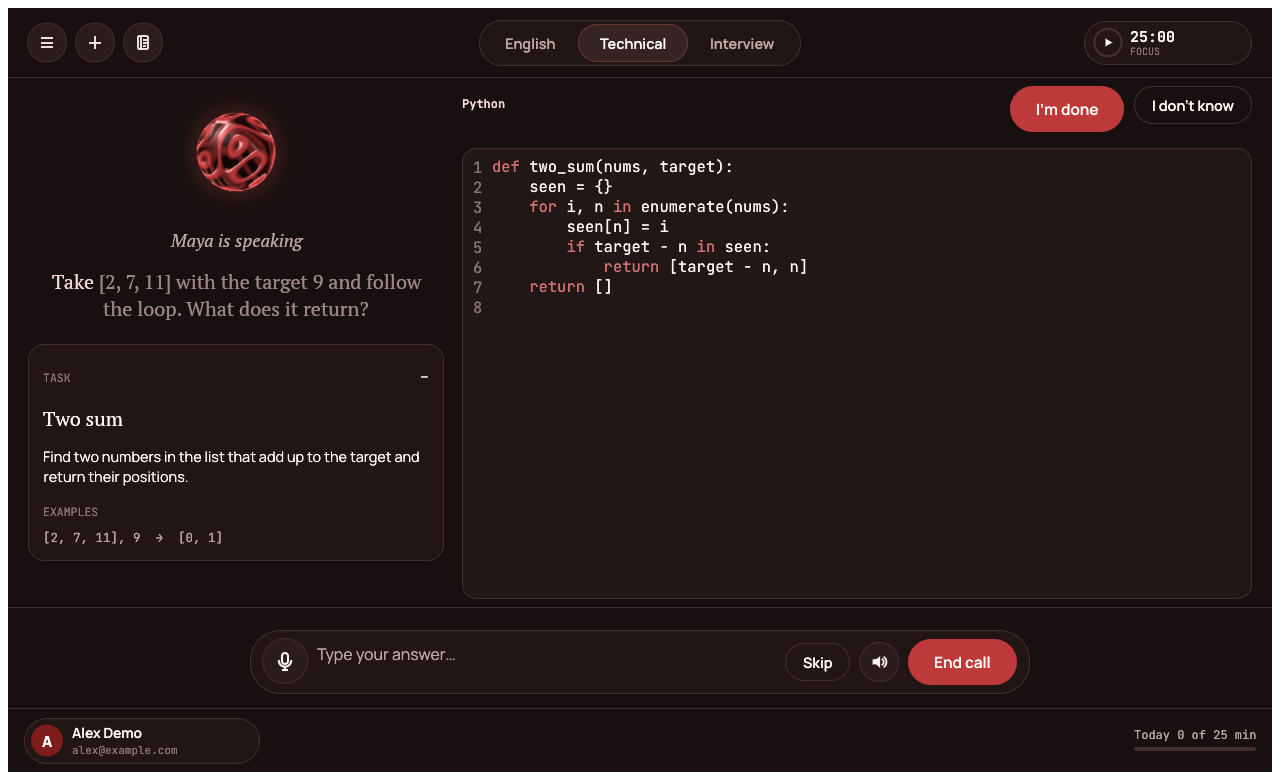
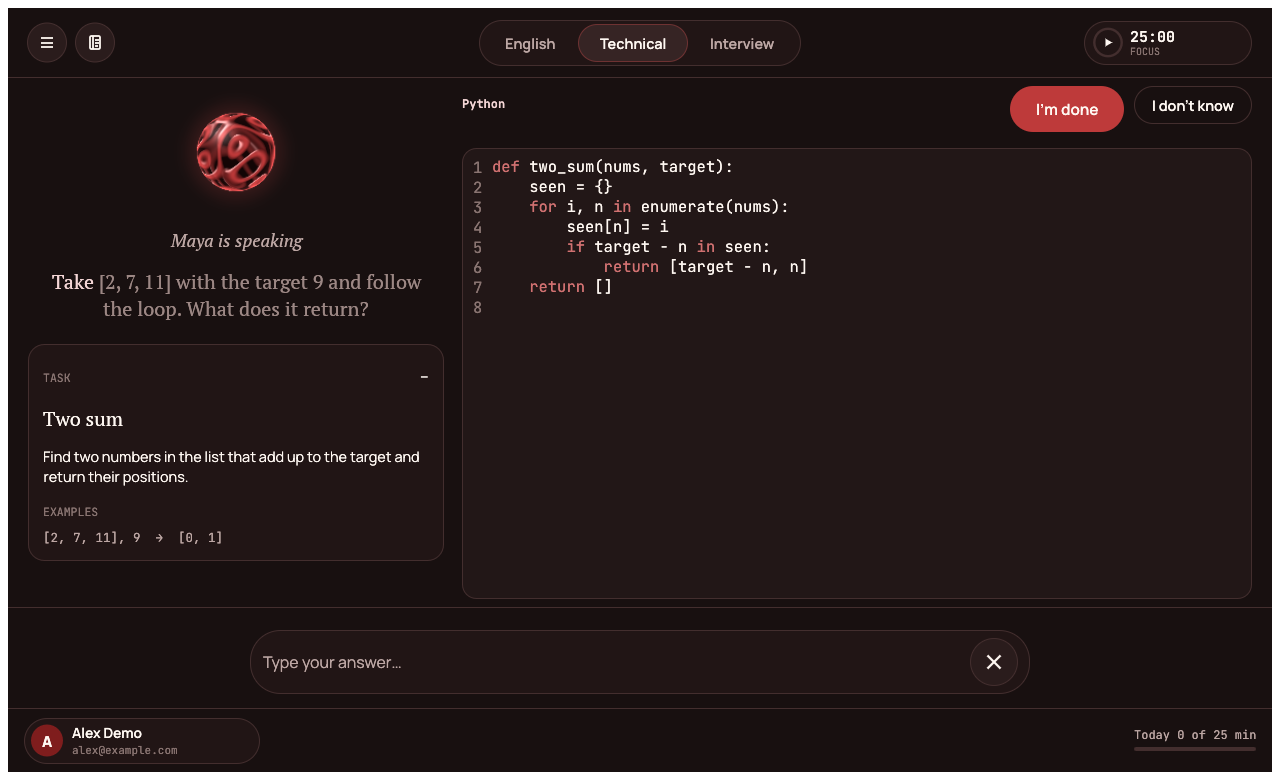
docs: new screenshots and wording for the plain call and the calendar
And 'Practice days in the last N weeks: M' instead of '1 days'.

diff --git a/prep/src/i18n.rs b/prep/src/i18n.rs
@@ -352,7 +352,7 @@ strings! {
     GoalMinutes => ("Goal per day, min", "Цель на день, мин"),
     HeatLabel => ("Practice calendar", "Календарь занятий"),
     HeatCaption => (
-        "{days} days of practice in the last {weeks} weeks",
+        "Practice days in the last {weeks} weeks: {days}",
         "Дней с практикой за последние {weeks} нед.: {days}"
     ),
     HeatLess => ("Less", "Меньше"),

diff --git a/docs/PREP.md b/docs/PREP.md
@@ -5,7 +5,7 @@ like a person. It is not part of the interview overlay: the overlay helps during
 for it.
 
 Every part looks the same: a glowing sphere in the middle that moves with the voice, what the tutor says written under
-it word by word as it is spoken, and a bar at the bottom to talk or type. A pill of three tabs sits at the top.
+it word by word as it is spoken, and two buttons at the bottom: the microphone and a cross to end the call. Start typing and a text box appears. A pill of three tabs sits at the top, and the ways to practise under each tab are in the drawer at the top left.
 
 | Tab | What it is for |
 |---|---|
